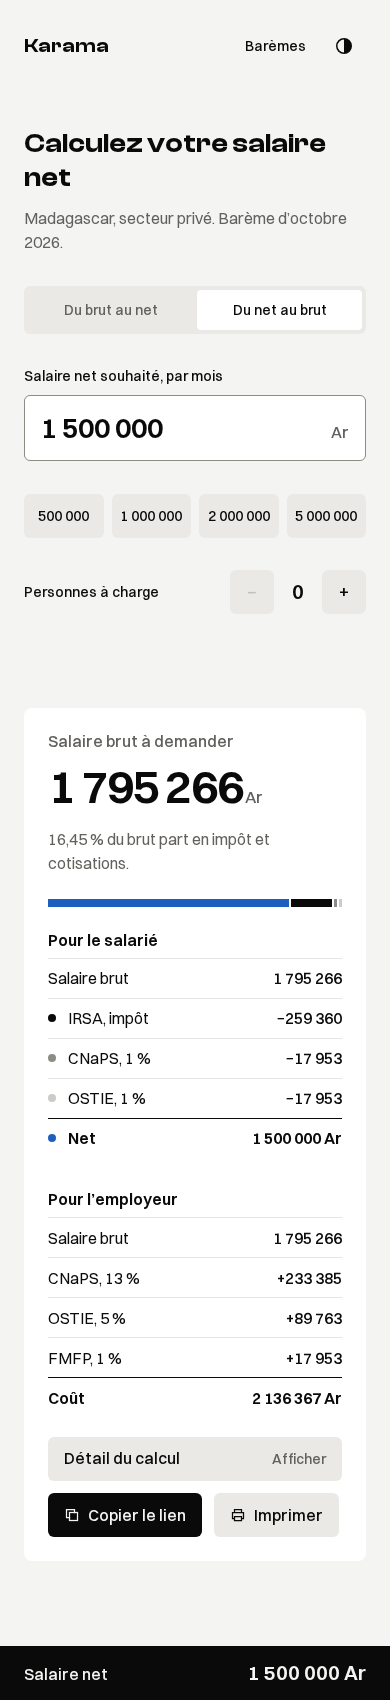
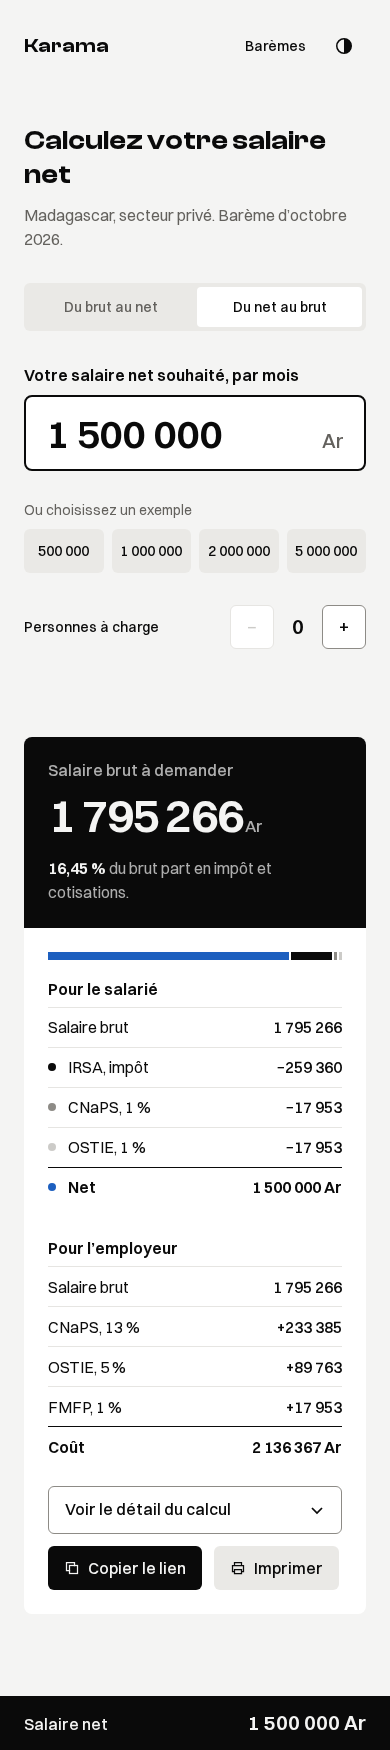
feat: strengthen hierarchy with highlighted salary field and inverted answer band

diff --git a/src/components/Breakdown.tsx b/src/components/Breakdown.tsx
@@ -12,19 +12,18 @@ export function Breakdown({ result: r }: { result: Result }) {
   const cnaps = share('cnaps')
   const ostie = share('ostie')
   const capNote = cnaps.capped ? `, plafonnée à ${formatAr(r.ceiling)} de salaire` : ''
+  const reached = r.brackets.filter((b) => b.reached).at(-1)
 
-  const steps: { label: string; note?: string; value: string; tone?: 'deduction' | 'net' }[] = [
+  const steps: { label: string; note: string; value: string; total?: boolean }[] = [
     {
       label: `CNaPS, part salarié (${formatRate(cnaps.employeeRate)})`,
       note: `Retraite et prévoyance${capNote}.`,
       value: formatDeduction(cnaps.employee),
-      tone: 'deduction',
     },
     {
       label: `OSTIE, part salarié (${formatRate(ostie.employeeRate)})`,
       note: `Médecine d’entreprise${capNote}.`,
       value: formatDeduction(ostie.employee),
-      tone: 'deduction',
     },
     {
       label: 'Base imposable',
@@ -33,7 +32,7 @@ export function Breakdown({ result: r }: { result: Result }) {
     },
     {
       label: 'IRSA selon le barème',
-      note: 'Somme des tranches du tableau ci-dessous.',
+      note: `Calculé par tranches, jusqu’à celle à ${formatRate(reached?.rate ?? 0)}.`,
       value: formatNumber(r.grossTax),
     },
     {
@@ -52,13 +51,12 @@ export function Breakdown({ result: r }: { result: Result }) {
         ? `Relevé au minimum de perception de ${formatAr(minimumTax)}.`
         : `Au-dessus du minimum de perception de ${formatAr(minimumTax)}.`,
       value: formatDeduction(r.irsa),
-      tone: 'deduction',
     },
     {
       label: 'Salaire net',
       note: 'Brut moins CNaPS, OSTIE et IRSA.',
-      value: formatNumber(r.net),
-      tone: 'net',
+      value: formatAr(r.net),
+      total: true,
     },
   ]
 
@@ -70,12 +68,23 @@ export function Breakdown({ result: r }: { result: Result }) {
           aria-expanded={open}
           aria-controls={id}
           onClick={() => setOpen(!open)}
-          className="flex min-h-11 w-full items-center justify-between gap-4 rounded bg-raised px-4 text-left font-medium print:hidden"
+          className="flex min-h-12 w-full items-center justify-between gap-4 rounded border border-control px-4 text-left font-medium transition-colors duration-150 hover:border-ink print:hidden"
         >
-          Détail du calcul
-          <span className="text-14 text-muted">{open ? 'Masquer' : 'Afficher'}</span>
+          {open ? 'Masquer le détail du calcul' : 'Voir le détail du calcul'}
+          <svg
+            width="16"
+            height="16"
+            viewBox="0 0 16 16"
+            fill="none"
+            stroke="currentColor"
+            strokeWidth="1.75"
+            aria-hidden="true"
+            className={`transition-transform duration-300 ${open ? 'rotate-180' : ''}`}
+          >
+            <path d="M3 6l5 5 5-5" />
+          </svg>
         </button>
-        <span className="hidden min-h-11 items-center font-medium print:flex">Détail du calcul</span>
+        <span className="hidden min-h-11 items-center font-semibold print:flex">Détail du calcul</span>
       </h3>
 
       <div
@@ -83,82 +92,27 @@ export function Breakdown({ result: r }: { result: Result }) {
         className={`grid transition-[grid-template-rows] duration-300 ease-out print:grid-rows-[1fr] ${open ? 'grid-rows-[1fr]' : 'grid-rows-[0fr]'}`}
       >
         <div className={`overflow-hidden print:visible ${open ? '' : 'invisible'}`}>
-          <div className="lg:grid lg:grid-cols-2 lg:gap-x-10">
-          <div>
-          <div className="mt-2 flex items-baseline justify-between gap-4 py-3">
+          <div className="mt-3 flex items-baseline justify-between gap-4 py-3">
             <span className="font-medium">Salaire brut</span>
-            <span className="mono text-16">{formatNumber(r.gross)}</span>
+            <span className="figure font-medium">{formatNumber(r.gross)}</span>
           </div>
           <ol>
             {steps.map((s, i) => (
-              <li key={s.label} className="flex items-baseline gap-4 border-t border-line py-3">
+              <li key={s.label} className={`flex items-baseline gap-4 border-t py-3 ${s.total ? 'border-ink' : 'border-line'}`}>
                 <span className="figure w-5 shrink-0 text-14 text-muted">{i + 1}</span>
                 <span className="min-w-0 grow">
-                  <span className="block font-medium">{s.label}</span>
-                  {s.note && <span className="block text-14 text-muted">{s.note}</span>}
+                  <span className={`block ${s.total ? 'font-semibold' : 'font-medium'}`}>{s.label}</span>
+                  <span className="block text-14 text-muted">{s.note}</span>
                 </span>
-                <span
-                  className={`mono text-16 font-medium ${s.tone === 'net' ? 'font-semibold' : ''}`}
-                >
-                  {s.value}
-                </span>
+                <span className={`figure ${s.total ? 'font-semibold' : 'font-medium'}`}>{s.value}</span>
               </li>
             ))}
           </ol>
-          </div>
-          <LiveScale result={r} />
-          </div>
+          <p className="pt-1 pb-2 text-14 text-muted">
+            Le barème complet et ses sources sont en bas de page.
+          </p>
         </div>
       </div>
     </section>
-  )
-}
-
-/** Bracket table where reached brackets fill up. */
-function LiveScale({ result: r }: { result: Result }) {
-  return (
-    <table className="mt-5 mb-2 w-full self-start text-16">
-      <caption className="pb-2 text-left font-medium">Barème IRSA, base de {formatAr(r.taxableBase)}</caption>
-      <thead>
-        <tr className="border-b border-line text-left text-muted">
-          <th scope="col" className="py-2 font-normal">
-            Tranche
-          </th>
-          <th scope="col" className="py-2 pr-4 text-right font-normal">
-            Taux
-          </th>
-          <th scope="col" className="py-2 text-right font-normal">
-            Impôt
-          </th>
-        </tr>
-      </thead>
-      <tbody>
-        {r.brackets.map((b) => {
-          const width = b.upTo === null ? b.amount : b.upTo - b.from
-          const fill = width > 0 ? b.amount / width : 0
-          return (
-            <tr key={b.from} className={`border-b border-line ${b.reached ? '' : 'text-muted'}`}>
-              <th scope="row" className="py-2 text-left font-normal">
-                <span className="mono block text-16">
-                  {b.upTo === null
-                    ? `Plus de ${formatNumber(b.from)}`
-                    : `${formatNumber(b.from === 0 ? 0 : b.from + 1)} à ${formatNumber(b.upTo)}`}
-                </span>
-                <span className="mt-2 block h-1 bg-raised" aria-hidden="true">
-                  <span
-                    className="block h-full origin-left bg-ink transition-transform duration-300 ease-out"
-                    style={{ transform: `scaleX(${fill})` }}
-                  />
-                </span>
-              </th>
-              <td className="mono py-2 pr-4 pl-4 text-right align-top">{formatRate(b.rate)}</td>
-              <td className={`mono py-2 text-right align-top `}>
-                {formatNumber(b.tax)}
-              </td>
-            </tr>
-          )
-        })}
-      </tbody>
-    </table>
   )
 }

diff --git a/src/components/ResultCard.tsx b/src/components/ResultCard.tsx
@@ -51,8 +51,10 @@ export function ResultCard({
   ]
 
   return (
-    <section id="resultat" aria-label="Résultat" className="rounded-lg bg-surface p-6 lg:px-10 lg:py-8">
-      <h2 className="text-16 font-medium text-muted">{title}</h2>
+    <section id="resultat" aria-label="Résultat" className="overflow-hidden rounded-lg bg-surface">
+      {/* The answer sits on an inverted band: it is the one thing to read first. */}
+      <div className="bg-ink px-6 py-6 text-bg lg:px-10 lg:py-7">
+      <h2 className="text-16 font-medium text-bg/70">{title}</h2>
 
       <div className="@container mt-3">
         <p
@@ -60,21 +62,28 @@ export function ResultCard({
           style={{ fontSize: `min(var(--net-max), ${(100 / widthInEm(headline)).toFixed(2)}cqw)` }}
           aria-hidden="true"
         >
-          {r ? formatNumber(shown) : <span className="text-control/45">0</span>}
-          <span className="text-[0.35em] font-medium tracking-normal text-muted">{NBSP}Ar</span>
+          {r ? formatNumber(shown) : <span className="text-bg/30">0</span>}
+          <span className="text-[0.35em] font-medium tracking-normal text-bg/70">{NBSP}Ar</span>
         </p>
         {/* Screen readers get the settled value once, not every animation frame. */}
         <p className="sr-only" aria-live="polite" aria-atomic="true">
           {r ? `${title} : ${formatNumber(headline)} ariary` : ''}
         </p>
       </div>
-      <p className="mt-4 text-muted">
-        {r
-          ? `${formatPercent(r.effectiveRate)} du brut part en impôt et cotisations.`
-          : 'Saisissez un salaire pour voir le résultat.'}
+      <p className="mt-4 text-bg/70">
+        {r ? (
+          <>
+            <strong className="font-semibold text-bg">{formatPercent(r.effectiveRate)}</strong> du brut part en impôt
+            et cotisations.
+          </>
+        ) : (
+          'Saisissez votre salaire pour voir le résultat.'
+        )}
       </p>
+      </div>
 
-      <div className="mt-6 flex h-2 gap-0.5" aria-hidden="true">
+      <div className="px-6 py-6 lg:px-10 lg:py-7">
+      <div className="flex h-2 gap-0.5" aria-hidden="true">
         {r ? (
           segments.map((s) => (
             <div
@@ -89,7 +98,7 @@ export function ResultCard({
       </div>
 
       {/* Employee and employer sides sit next to each other, so nothing needs scrolling. */}
-      <div className="mt-6 grid gap-x-10 gap-y-8 lg:grid-cols-2">
+      <div className="mt-5 grid gap-x-10 gap-y-8 lg:grid-cols-2">
         <section aria-labelledby="employee-side">
           <h3 id="employee-side" className="mb-2 font-semibold">
             Pour le salarié
@@ -133,6 +142,7 @@ export function ResultCard({
           <ShareActions title={`Karama : ${formatAr(r.net)} net pour ${formatAr(r.gross)} brut`} />
         </div>
       )}
+      </div>
     </section>
   )
 }

diff --git a/src/App.tsx b/src/App.tsx
@@ -9,6 +9,8 @@ import { formatAr, formatNumber } from './lib/format'
 import { MAX_DEPENDANTS, loadInitial, persist, type Mode, type State } from './lib/state'
 
 const MAX_AMOUNT = 1_000_000_000
+/** Focusing the field on a phone would pop the keyboard over the page. */
+const DESKTOP = matchMedia('(min-width: 960px)').matches
 const QUICK_AMOUNTS = [500_000, 1_000_000, 2_000_000, 5_000_000]
 const MODES: { id: Mode; name: string }[] = [
   { id: 'gross', name: 'Du brut au net' },
@@ -51,7 +53,7 @@ export function App() {
           </nav>
         </header>
 
-        <main className="mx-auto grid w-full max-w-page grow items-center gap-x-16 gap-y-10 px-6 pt-8 pb-28 lg:grid-cols-[340px_1fr] lg:px-10 lg:py-10">
+        <main className="mx-auto grid w-full max-w-page grow items-center gap-x-16 gap-y-10 px-6 pt-8 pb-28 lg:grid-cols-[340px_1fr] lg:px-10 lg:py-6">
           <form className="print:hidden" onSubmit={(e) => e.preventDefault()}>
             <h1 className="font-display text-28">Calculez votre salaire net</h1>
             <p className="mt-3 text-muted">Madagascar, secteur privé. Barème d’octobre 2026.</p>
@@ -73,20 +75,24 @@ export function App() {
 
               <div>
                 <AmountField
-                  label={state.mode === 'net' ? 'Salaire net souhaité, par mois' : 'Salaire brut, par mois'}
+                  label={state.mode === 'net' ? 'Votre salaire net souhaité, par mois' : 'Votre salaire brut, par mois'}
                   value={state.amount}
                   onChange={(amount) => update({ amount })}
                   hint={hint}
                   tone={tone}
+                  autoFocus={DESKTOP && state.amount === null}
                 />
-                <div className="mt-1 grid grid-cols-4 gap-2" role="group" aria-label="Montants courants">
+                <p id="quick-amounts" className="text-14 text-muted">
+                  Ou choisissez un exemple
+                </p>
+                <div className="mt-2 grid grid-cols-4 gap-2" role="group" aria-labelledby="quick-amounts">
                   {QUICK_AMOUNTS.map((amount) => (
                     <button
                       key={amount}
                       type="button"
                       aria-pressed={state.amount === amount}
                       onClick={() => update({ amount })}
-                      className={`figure min-h-11 rounded px-1 text-14 font-medium transition-colors duration-150 ${state.amount === amount ? 'bg-ink text-bg' : 'bg-raised hover:bg-line'}`}
+                      className={`figure min-h-11 rounded px-1 text-14 font-medium transition-colors duration-150 ${state.amount === amount ? 'bg-ink text-bg' : 'bg-raised hover:bg-control/45'}`}
                     >
                       {formatNumber(amount)}
                     </button>

diff --git a/src/components/AmountField.tsx b/src/components/AmountField.tsx
@@ -8,12 +8,13 @@ interface Props {
   /** Status message under the field. */
   hint?: string
   tone?: 'neutral' | 'warning'
+  autoFocus?: boolean
 }
 
 const MAX_DIGITS = 10
 
 /** Ariary amount field, formatted while typing. */
-export function AmountField({ label, value, onChange, hint, tone = 'neutral' }: Props) {
+export function AmountField({ label, value, onChange, hint, tone = 'neutral', autoFocus }: Props) {
   const id = useId()
   const ref = useRef<HTMLInputElement>(null)
   /** Number of digits left of the caret, restored after formatting. */
@@ -33,17 +34,18 @@ export function AmountField({ label, value, onChange, hint, tone = 'neutral' }: 
 
   return (
     <div>
-      <label htmlFor={id} className="label block">
+      <label htmlFor={id} className="block text-16 font-semibold">
         {label}
       </label>
-      <div className="mt-2 flex items-baseline gap-3 rounded border border-control bg-surface px-4 focus-within:border-ink focus-within:outline-2 focus-within:outline-offset-2 focus-within:outline-ink">
+      <div className="mt-2 flex items-baseline gap-3 rounded-lg border-2 border-ink bg-surface px-5 focus-within:outline-[3px] focus-within:outline-offset-2 focus-within:outline-accent">
         <input
           ref={ref}
           id={id}
           type="text"
           inputMode="numeric"
           autoComplete="off"
-          placeholder="0"
+          placeholder="1 000 000"
+          autoFocus={autoFocus}
           value={text}
           aria-describedby={`${id}-hint`}
           onChange={(e) => {
@@ -53,9 +55,9 @@ export function AmountField({ label, value, onChange, hint, tone = 'neutral' }: 
             caretDigits.current = before.replace(/\D/g, '').length
             onChange(digits === '' ? null : Number(digits))
           }}
-          className="figure h-16 w-full min-w-0 bg-transparent text-28 font-semibold outline-none placeholder:text-control/45 lg:h-18 lg:text-40"
+          className="figure h-18 w-full min-w-0 bg-transparent text-40 font-semibold outline-none placeholder:text-control/45 lg:h-20"
         />
-        <span className="text-16 font-medium text-muted">Ar</span>
+        <span className="text-20 font-medium text-muted">Ar</span>
       </div>
       <p
         id={`${id}-hint`}

diff --git a/src/components/Controls.tsx b/src/components/Controls.tsx
@@ -20,7 +20,7 @@ export function Stepper({
   onChange: (v: number) => void
 }) {
   const button =
-    'h-11 w-11 rounded bg-raised text-20 transition-opacity duration-150 hover:opacity-80 disabled:cursor-not-allowed disabled:text-control/45 disabled:hover:opacity-100'
+    'h-11 w-11 rounded border border-control bg-surface text-20 transition-colors duration-150 hover:border-ink disabled:cursor-not-allowed disabled:border-line disabled:text-control/45'
   return (
     <div className="flex items-center justify-between gap-4">
       <span className="label">{label}</span>

diff --git a/README.md b/README.md
@@ -13,7 +13,7 @@ Everything is computed in the browser. There is no backend, no account and no da
 ## Features
 
 - Net pay updates on every keystroke, with the effective rate and a ribbon showing where the gross goes.
-- Step-by-step breakdown and a bracket table that fills up to the taxable base.
+- Step-by-step breakdown of the calculation; the full scale and its sources sit at the bottom of the page.
 - Employee and employer sides shown next to each other, with CNaPS, OSTIE and FMFP shares and the total cost of the position.
 - Net to gross mode, to find the gross to ask for.
 - Shareable link (`?brut=1000000&pac=2&vue=employeur`, or `?net=1500000`), native share sheet and a print stylesheet.
